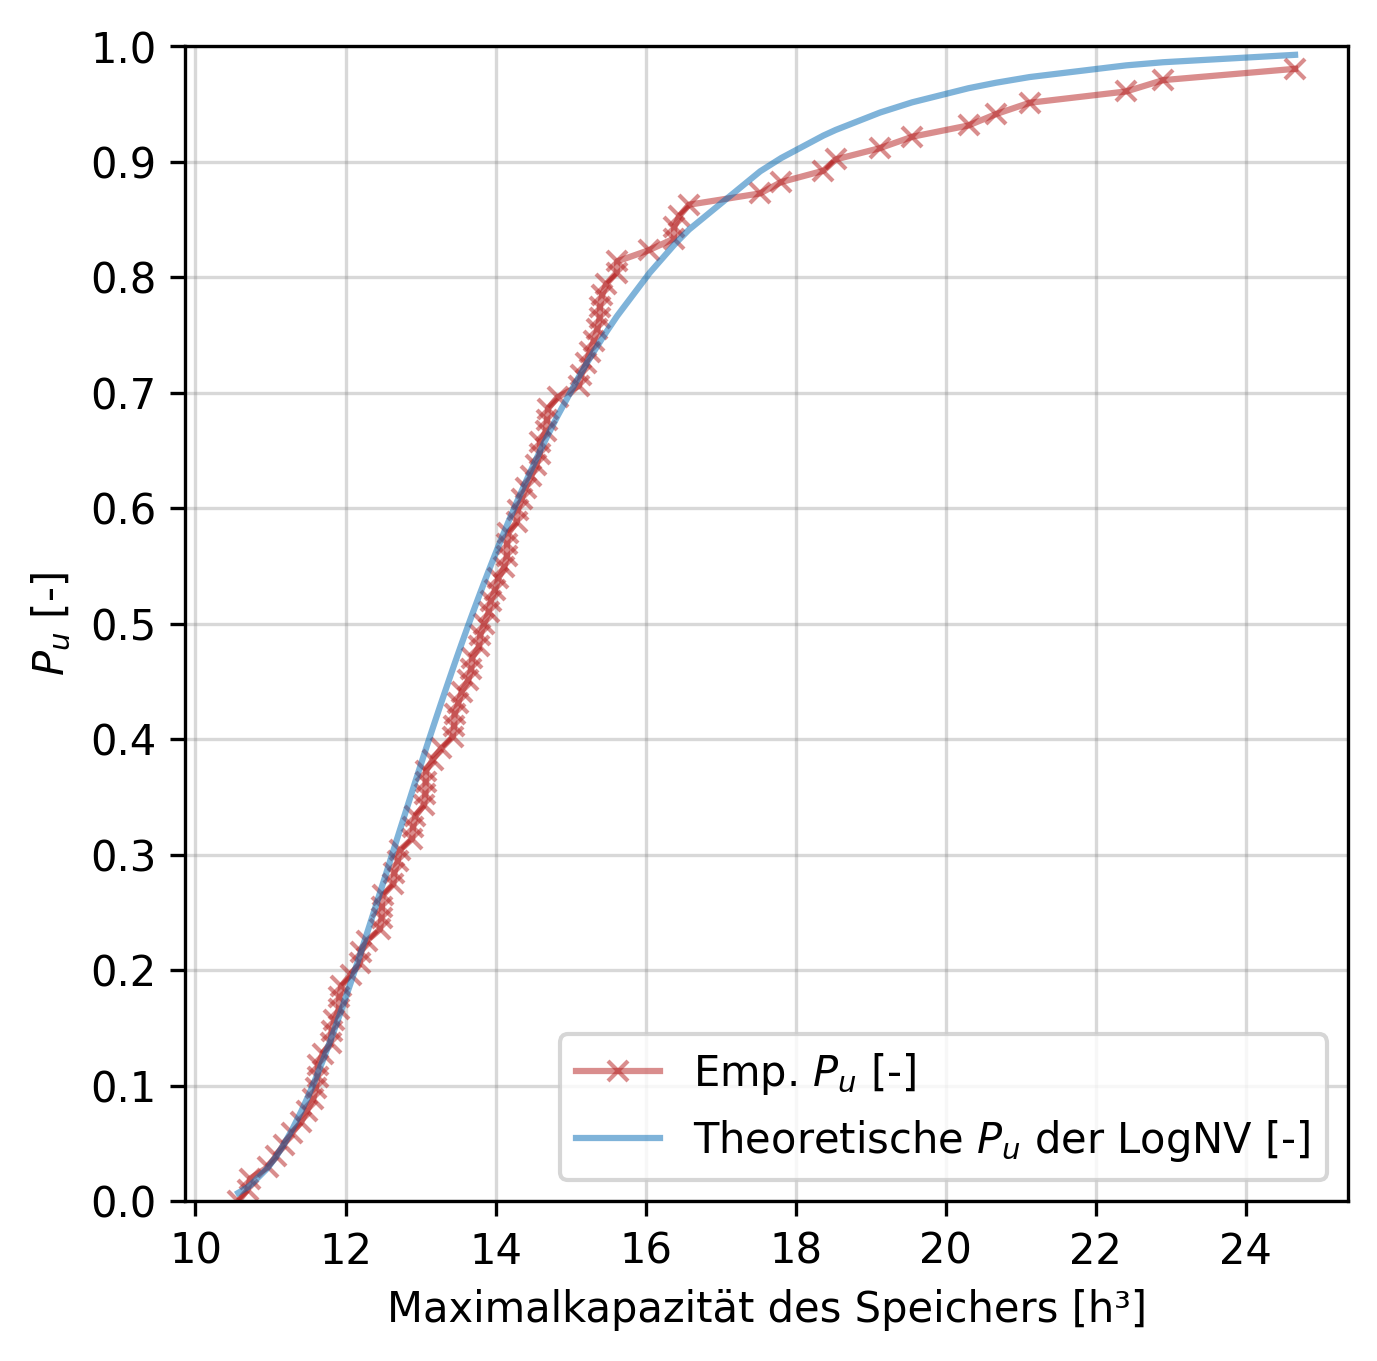
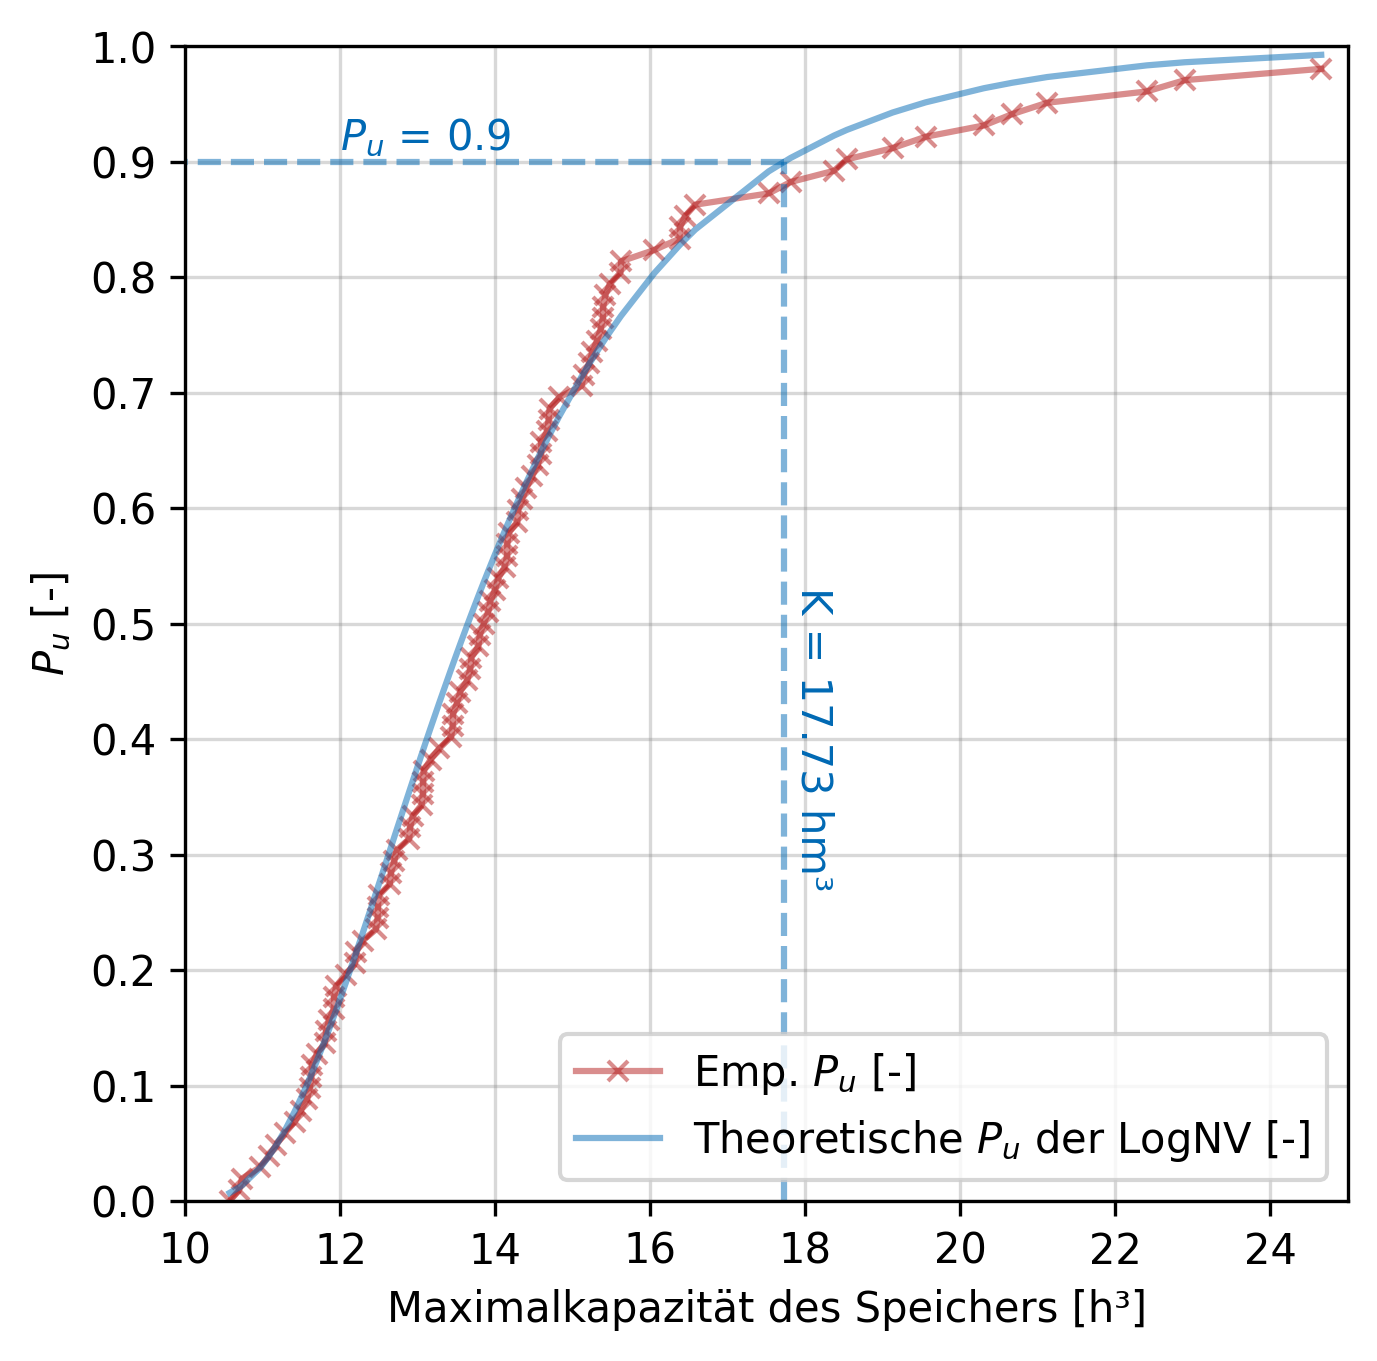
📈 Add 90% mark in Pu plot

diff --git a/code/utils/plotting.py b/code/utils/plotting.py
@@ -597,7 +597,8 @@ def plot_fsa(
 def plot_capacity(
         capacities_sort: list[float],
         pu_emp: list[float],
-        pu_theo: list[float]
+        pu_theo: list[float],
+        cap_90: float
         ):
     """Pu plot of theoretical and empirical Pu."""
     
@@ -607,10 +608,17 @@ def plot_capacity(
     plt.plot(capacities_sort, pu_theo, color=tu_mediumblue, alpha=0.5,
              label="Theoretische $P_u$ der LogNV [-]")
     
+    plt.plot([cap_90, cap_90], [0, 0.9], color=tu_mediumblue, linestyle="--", alpha=0.5)
+    plt.plot([0, cap_90], [0.9, 0.9], color=tu_mediumblue, linestyle="--", alpha=0.5)
+    plt.text(cap_90+0.1, 0.4, f"K = {round(cap_90, 2)} hm³", ha="left", 
+             va="center", fontsize=10, color=tu_mediumblue, rotation=270)
+    plt.text(12, 0.91, f"$P_u$ = 0.9", fontsize=10, color=tu_mediumblue)
+    
     plt.xlabel("Maximalkapazität des Speichers [h³]")
     plt.ylabel("$P_u$ [-]")
     plt.yticks(np.arange(0,1.1,0.1))
     plt.ylim([0, 1])
+    plt.xlim([10,25])
     plt.grid(color="grey", alpha=0.3)
     plt.legend(loc="lower right")
     plt.savefig(image_path+f"{pegelname}_fit_lognv_pu.png", dpi=300, bbox_inches="tight")

diff --git a/code/utils/dimensioning/fit_capacity.py b/code/utils/dimensioning/fit_capacity.py
@@ -43,8 +43,12 @@ def fit_capacity():
     pd.DataFrame(data={"Quantile":q, "theoQuantile":q_theo_fixed}).round(3).to_latex(
         f"data/{pegelname}_quantile_fixed.tex", index=False)
     
+    # 90 % quantile
+    cap_90 = lognorm.ppf(0.9, shape, loc=loc, scale=scale)
+    print(f"90 % Quantile: {cap_90}")
     
-    plot_capacity(capacities_sort=cap_sort, pu_emp=pu_emp, pu_theo=pu_theo)
+    plot_capacity(capacities_sort=cap_sort, pu_emp=pu_emp, pu_theo=pu_theo, 
+                  cap_90=cap_90)
     qq_plot(emp=q_emp, theo=q_theo)
     
     # KS test
